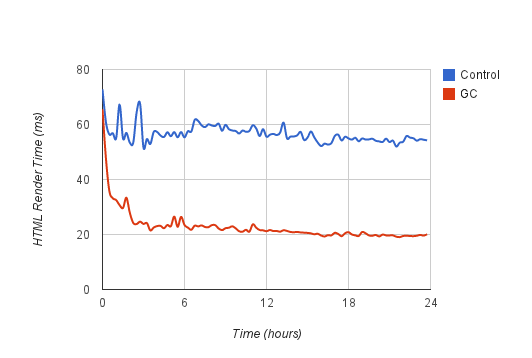
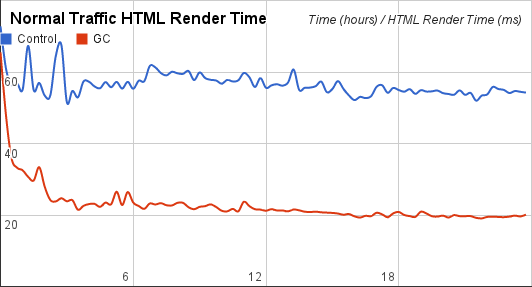
Fix graphs, add outline for last chapter

Changed region(s): [[0.0, 0.0, 1.0, 1.0], [0.2105, 0.1672, 0.812, 0.1951], [0.1203, 0.6411, 0.1805, 0.669]]

diff --git a/thesis.tex b/thesis.tex
@@ -516,7 +516,7 @@ But first, we must reiterate \textsf{iFixit}'s requirements for such a caching s
 
 \begin{description}
    \item[R1] The caching strategy must be largely transparent to the developer.
-             The developer should only be required to determine what data to cache, not how to cache it and how to invalidate it.
+             The developer should only be required to determine what data to cache, not how to cache the data and how to invalidate the cache entries.
    \item[R2] The caching strategy must allow for finer-grained caching without added complexity.
    \item[R3] The caching strategy must provide a means of caching and invalidating fragments of HTML.
    \item[R4] The caching strategy must result in increased performance in regards to response time and database load. % TODO: Not database load because it's hard to measure? Or it isn't since query count/exec time is good? Be more specific?
@@ -917,7 +917,7 @@ Time spent in \textsf{Memcached} calls will likely increase because more content
 
 Finally, the interesting values for \textsf{MySQL} are \textit{query count} and \textit{total query time}.
 Query count should go down because the cache should serve more requests that previously were handled by the database.
-Additionally, network overhead is reduuced because more content is retrieved in batch using fewer queries.
+Additionally, network overhead is reduced because more content is retrieved in batch using fewer queries.
 Both of these should cause a decrease in total database query time.
 
 %\section{Hypothesis}
@@ -982,32 +982,48 @@ However, \textsf{Memcached} gets and cache hit rate go down.
 Figures~\ref{fig:teardownRespTimeXTime} and~\ref{fig:normalRespTimeXTime} show that average response time has decreased uniformly for our generational caching implementation.
 Likewise, Figures~\ref{fig:teardownHTMLRenderTimeXTime} and~\ref{fig:normalHTMLRenderTimeXTime} show that HTML render time decreases quickly at the beginning and continues to decrease as time goes on.
 
-\begin{figure}[h]
+\begin{figure}[htp]
 \centering
 \includegraphics[width=\textwidth]{assets/teardownRespTimeXTime.png}
 \caption{Teardown traffic response time}
 \label{fig:teardownRespTimeXTime}
 \end{figure}
 
-\begin{figure}[h]
+\begin{figure}[htp]
 \centering
 \includegraphics[width=\textwidth]{assets/normalRespTimeXTime.png}
 \caption{Normal traffic response time}
 \label{fig:normalRespTimeXTime}
 \end{figure}
 
-\begin{figure}[h]
+
+\begin{figure}[htp]
 \centering
 \includegraphics[width=\textwidth]{assets/teardownHTMLRenderTimeXTime.png}
 \caption{Teardown traffic HTML render time over time}
 \label{fig:teardownHTMLRenderTimeXTime}
 \end{figure}
 
-\begin{figure}[h]
+\begin{figure}[htp]
 \centering
 \includegraphics[width=\textwidth]{assets/normalHTMLRenderTimeXTime.png}
 \caption{Normal traffic HTML render time over time}
 \label{fig:normalHTMLRenderTimeXTime}
+\end{figure}
+
+
+\begin{figure}[htp]
+\centering
+\includegraphics[width=\textwidth]{assets/teardownMissCountXTime.png}
+\caption{Teardown traffic cache miss count over time}
+\label{fig:teardownMissCountXTime}
+\end{figure}
+
+\begin{figure}[htp]
+\centering
+\includegraphics[width=\textwidth]{assets/normalMissCountXTime.png}
+\caption{Normal traffic cache miss count over time}
+\label{fig:normalMissCountXTime}
 \end{figure}
 
 \section{Analysis}
@@ -1028,11 +1044,14 @@ The teardown's HTML is cached early on and is used for subsequent requests.
 However, this is not true of the normal traffic HTML render time because a larger breadth of content is being requested so the chance of finding the cached HTML is much lower.
 Although, as time increases, HTML render time decreases more on the normal traffic than the teardown traffic for the same reason as above.
 
-\chapter{Conclusions and Future Work} \label{conclusions}
+\subsection{Requirements}
+Go through each requirement and determine if our solution passes or fails.
 
-% TODO: Write.
 
-\section{Future Work Ideas}
+\chapter{Conclusions} \label{conclusions}
+Overall thoughts on caching, generational caching, database load, HTML rendering, web server performance, results.
+
+\section{Future Work}
 How size of cache affects hit rate over long periods of time to evaluate if it's okay to not invalidate anything.
 
 
